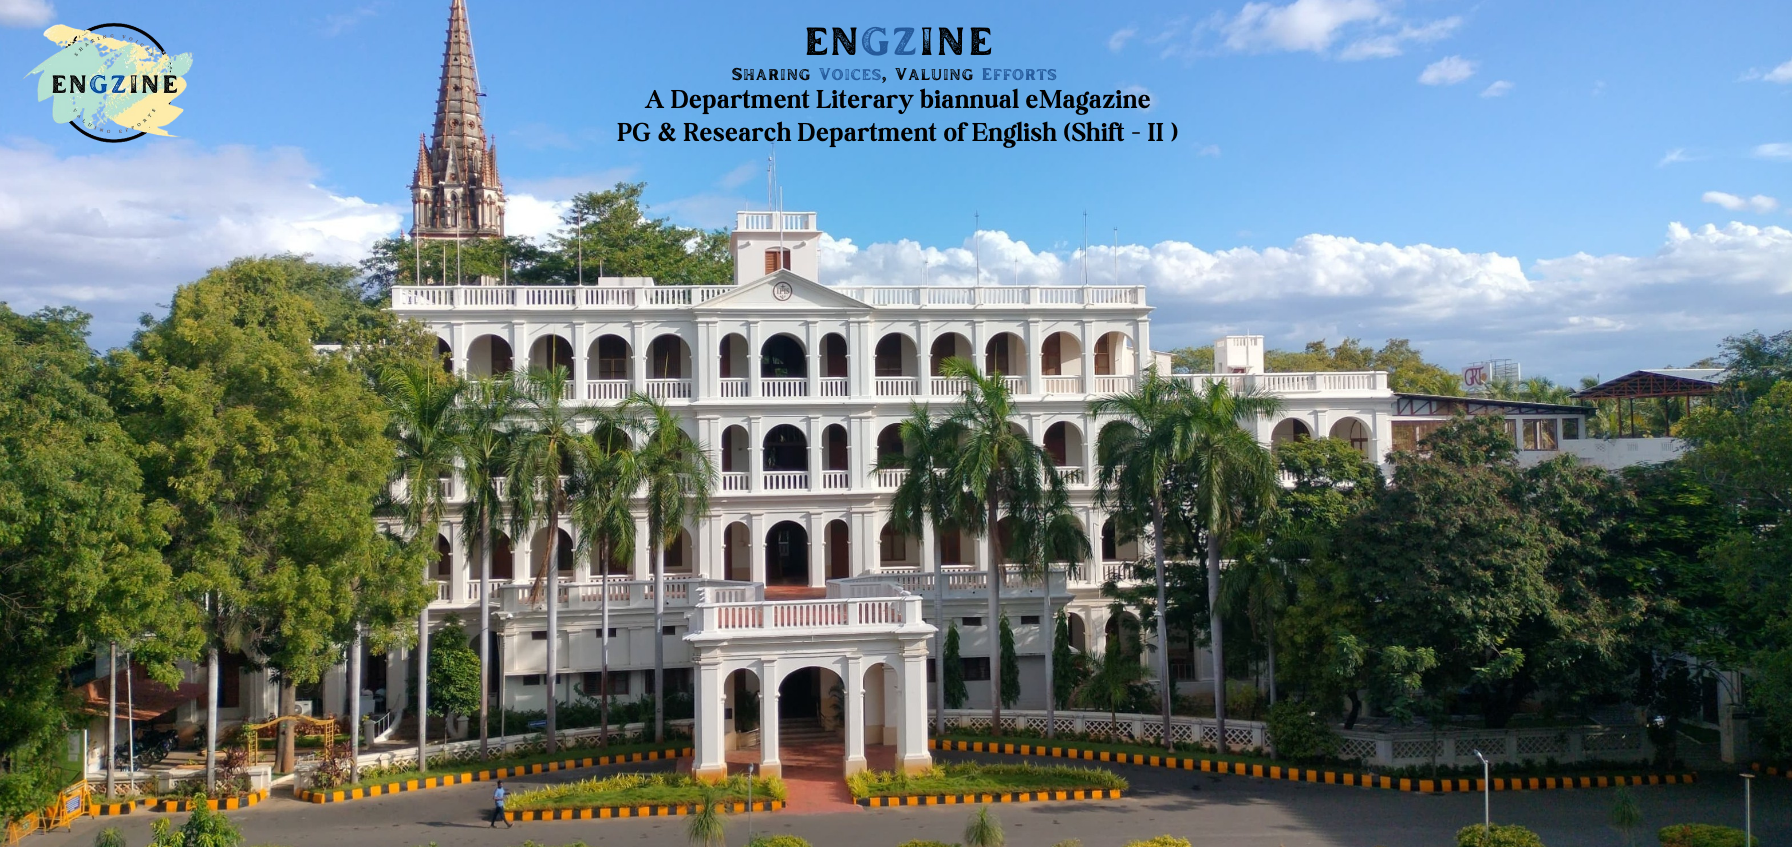
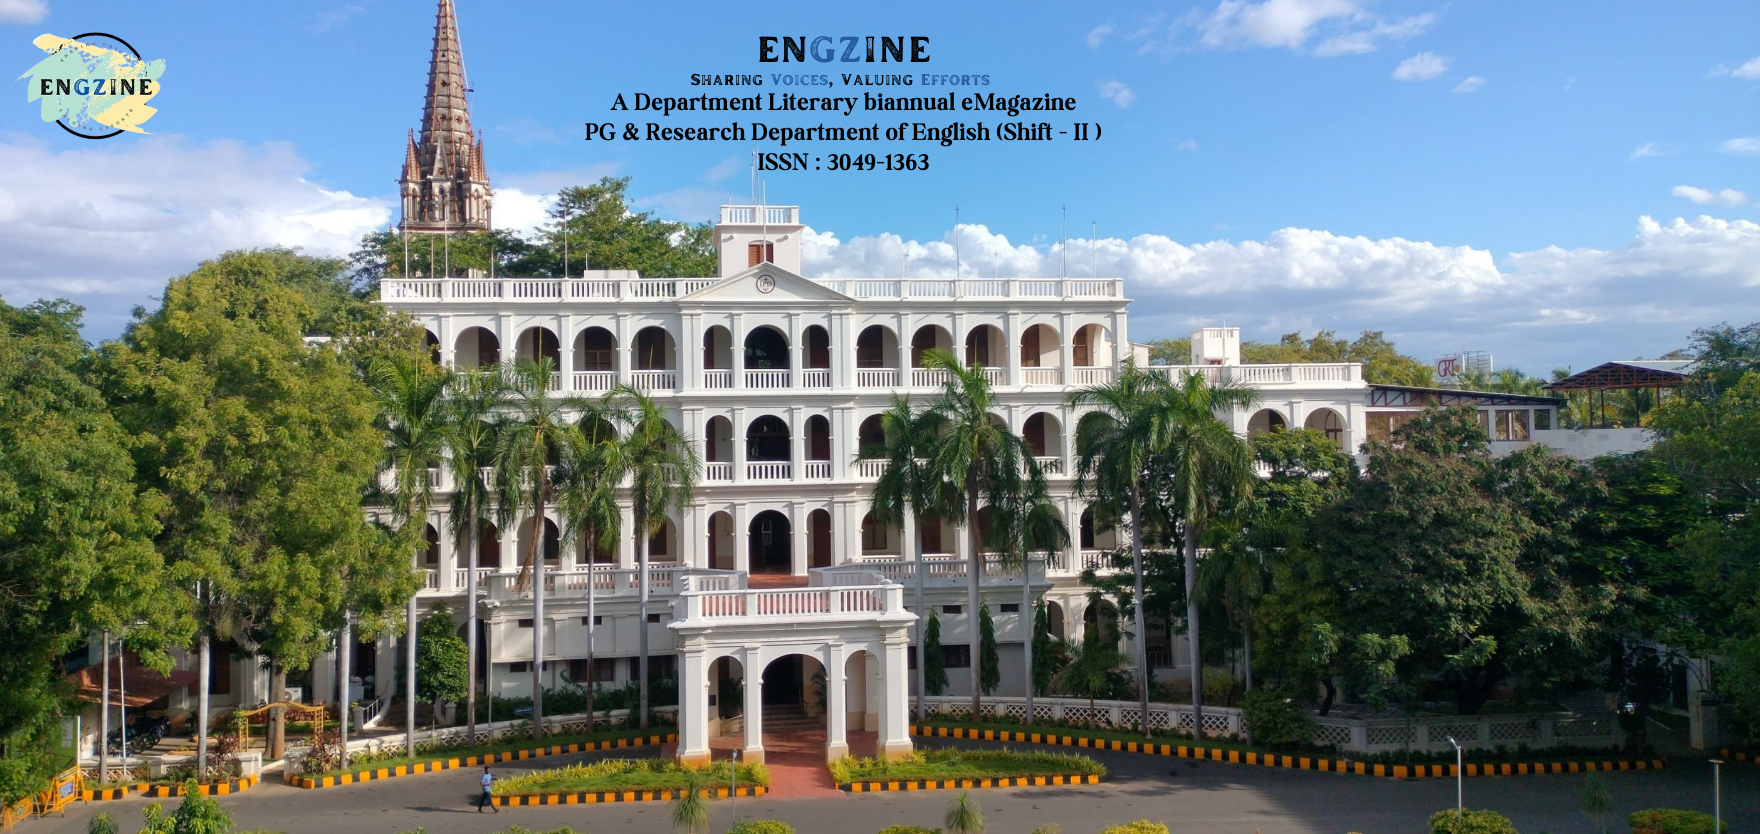
c

diff --git a/index.html b/index.html
@@ -384,6 +384,9 @@
             <h3 style="color: white">Publishing Body</h3>
             <p>PG & Research Department of English</p>
 
+            <h3 style="color: white">ISSN</h3>
+            <p>3049-1363</p>
+
             <h3 style="color: white">Address</h3>
             <p>
               PG & Research Department of English,<br />
